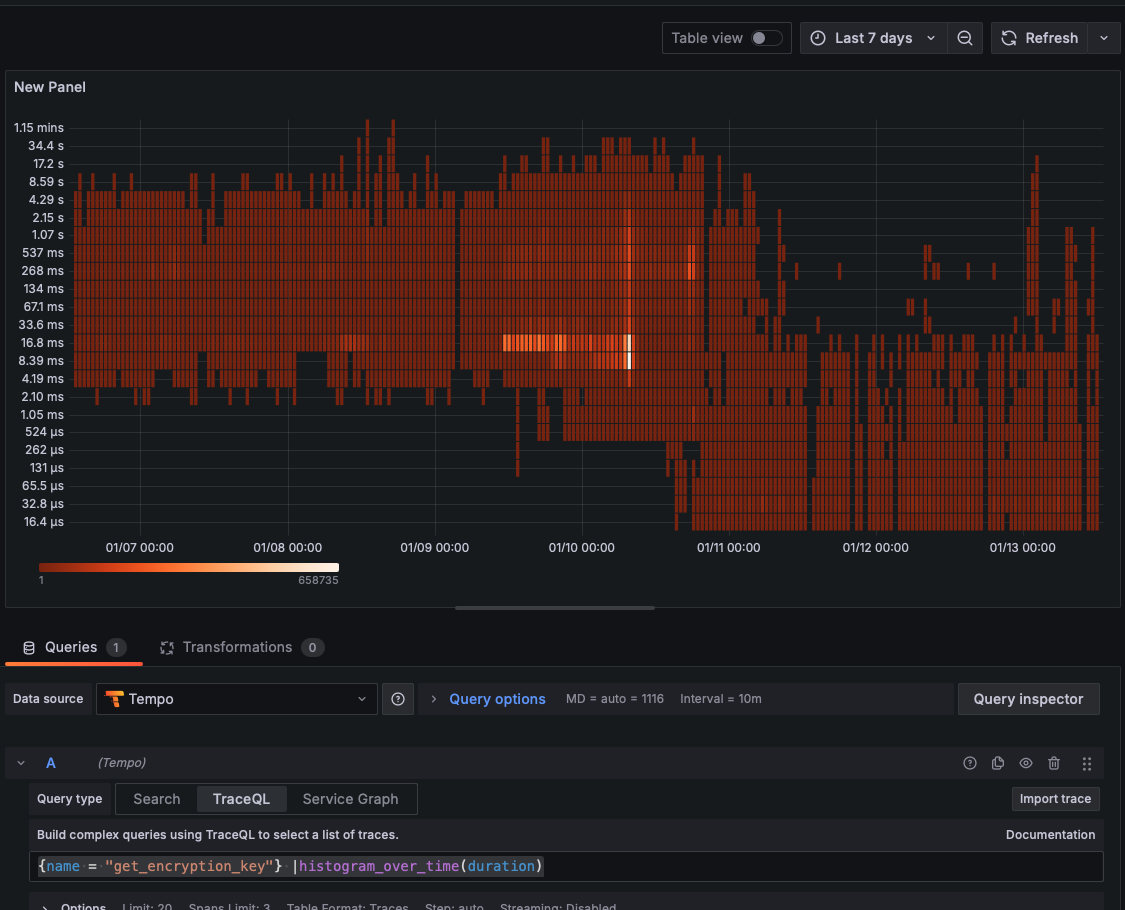
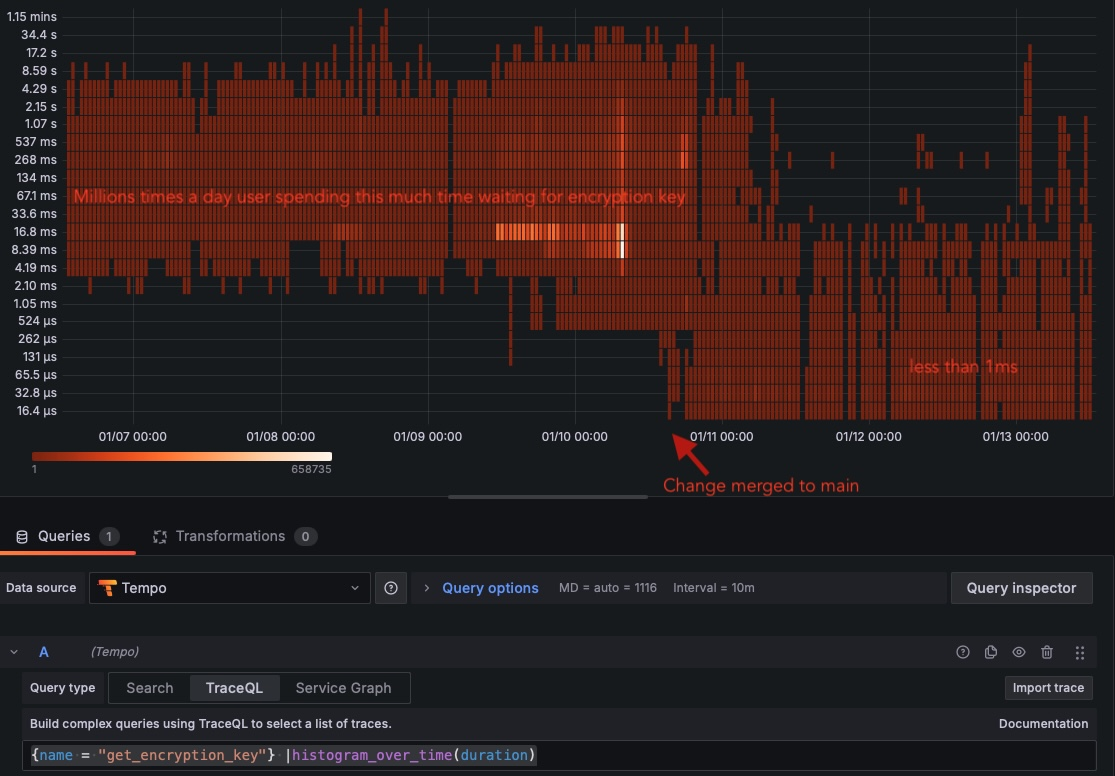
add resume buttom

diff --git a/site/public/app/index.html b/site/public/app/index.html
@@ -5,12 +5,12 @@
 		<link rel="icon" href="/app/favicon.png" />
 		<meta name="viewport" content="width=device-width, initial-scale=1" />
 		
-		<link rel="modulepreload" href="/app/_app/immutable/entry/start.C6UsscY4.js">
-		<link rel="modulepreload" href="/app/_app/immutable/chunks/Clb7jlLj.js">
+		<link rel="modulepreload" href="/app/_app/immutable/entry/start.DeOweKAX.js">
+		<link rel="modulepreload" href="/app/_app/immutable/chunks/CEBIE8Qb.js">
 		<link rel="modulepreload" href="/app/_app/immutable/chunks/Bzf91455.js">
-		<link rel="modulepreload" href="/app/_app/immutable/chunks/28dDWNPq.js">
+		<link rel="modulepreload" href="/app/_app/immutable/chunks/DODtzOMj.js">
 		<link rel="modulepreload" href="/app/_app/immutable/chunks/CP0TMr1Z.js">
-		<link rel="modulepreload" href="/app/_app/immutable/entry/app.DRmw17VJ.js">
+		<link rel="modulepreload" href="/app/_app/immutable/entry/app.Ch2b6Hvy.js">
 		<link rel="modulepreload" href="/app/_app/immutable/chunks/Cw6Nb3zt.js">
 		<link rel="modulepreload" href="/app/_app/immutable/chunks/BXiMbGZ1.js">
 		<link rel="modulepreload" href="/app/_app/immutable/chunks/DLx3gMsL.js">
@@ -21,7 +21,7 @@
 		<div style="display: contents">
 			<script>
 				{
-					__sveltekit_4tgsgi = {
+					__sveltekit_1yesojg = {
 						base: "/app",
 						assets: "/app"
 					};
@@ -29,8 +29,8 @@
 					const element = document.currentScript.parentElement;
 
 					Promise.all([
-						import("/app/_app/immutable/entry/start.C6UsscY4.js"),
-						import("/app/_app/immutable/entry/app.DRmw17VJ.js")
+						import("/app/_app/immutable/entry/start.DeOweKAX.js"),
+						import("/app/_app/immutable/entry/app.Ch2b6Hvy.js")
 					]).then(([kit, app]) => {
 						kit.start(app, element);
 					});

diff --git a/site/static/app/index.html b/site/static/app/index.html
@@ -5,12 +5,12 @@
 		<link rel="icon" href="/app/favicon.png" />
 		<meta name="viewport" content="width=device-width, initial-scale=1" />
 		
-		<link rel="modulepreload" href="/app/_app/immutable/entry/start.C6UsscY4.js">
-		<link rel="modulepreload" href="/app/_app/immutable/chunks/Clb7jlLj.js">
+		<link rel="modulepreload" href="/app/_app/immutable/entry/start.DeOweKAX.js">
+		<link rel="modulepreload" href="/app/_app/immutable/chunks/CEBIE8Qb.js">
 		<link rel="modulepreload" href="/app/_app/immutable/chunks/Bzf91455.js">
-		<link rel="modulepreload" href="/app/_app/immutable/chunks/28dDWNPq.js">
+		<link rel="modulepreload" href="/app/_app/immutable/chunks/DODtzOMj.js">
 		<link rel="modulepreload" href="/app/_app/immutable/chunks/CP0TMr1Z.js">
-		<link rel="modulepreload" href="/app/_app/immutable/entry/app.DRmw17VJ.js">
+		<link rel="modulepreload" href="/app/_app/immutable/entry/app.Ch2b6Hvy.js">
 		<link rel="modulepreload" href="/app/_app/immutable/chunks/Cw6Nb3zt.js">
 		<link rel="modulepreload" href="/app/_app/immutable/chunks/BXiMbGZ1.js">
 		<link rel="modulepreload" href="/app/_app/immutable/chunks/DLx3gMsL.js">
@@ -21,7 +21,7 @@
 		<div style="display: contents">
 			<script>
 				{
-					__sveltekit_4tgsgi = {
+					__sveltekit_1yesojg = {
 						base: "/app",
 						assets: "/app"
 					};
@@ -29,8 +29,8 @@
 					const element = document.currentScript.parentElement;
 
 					Promise.all([
-						import("/app/_app/immutable/entry/start.C6UsscY4.js"),
-						import("/app/_app/immutable/entry/app.DRmw17VJ.js")
+						import("/app/_app/immutable/entry/start.DeOweKAX.js"),
+						import("/app/_app/immutable/entry/app.Ch2b6Hvy.js")
 					]).then(([kit, app]) => {
 						kit.start(app, element);
 					});

diff --git a/site/public/posts/my-first-post/index.html b/site/public/posts/my-first-post/index.html
@@ -167,6 +167,16 @@
             </div>
         </div>
         <ul id="menu">
+            <li>
+                <a href="http://localhost:1313/resume" title="Resume">
+                    <span>Resume</span>
+                </a>
+            </li>
+            <li>
+                <a href="http://localhost:1313/posts" title="Posts">
+                    <span>Posts</span>
+                </a>
+            </li>
         </ul>
     </nav>
 </header>
@@ -259,7 +269,7 @@ Query understanding, document retrieval, and summarization.</p>
 Suspect the latency come from poor network call concurrency from Python.
 <img alt="long redis delay" loading="lazy" src="/posts/my-first-post/redis.png"></p>
 <p>This heatmap shows two hot zones for the simple getting encryption key operation, one near 16.8ms, the other near 537ms:
-<img alt="Fetch Encryption Key" loading="lazy" src="encryption-heatmap.png">
+<img alt="Fetch Encryption Key" loading="lazy" src="/posts/my-first-post/encryption-heatmap.png">
 Similarly, key validation function could take way longer than it should.
 <img alt="Bottleneck Analysis" loading="lazy" src="/posts/my-first-post/key-validation.png">
 <img alt="trace hub" loading="lazy" src="/posts/my-first-post/trace-hub.png"></p>

diff --git a/site/public/posts/index.html b/site/public/posts/index.html
@@ -123,6 +123,16 @@
             </div>
         </div>
         <ul id="menu">
+            <li>
+                <a href="http://localhost:1313/resume" title="Resume">
+                    <span>Resume</span>
+                </a>
+            </li>
+            <li>
+                <a href="http://localhost:1313/posts" title="Posts">
+                    <span class="active">Posts</span>
+                </a>
+            </li>
         </ul>
     </nav>
 </header>

diff --git a/site/public/404.html b/site/public/404.html
@@ -107,6 +107,16 @@
             </div>
         </div>
         <ul id="menu">
+            <li>
+                <a href="http://localhost:1313/resume" title="Resume">
+                    <span>Resume</span>
+                </a>
+            </li>
+            <li>
+                <a href="http://localhost:1313/posts" title="Posts">
+                    <span>Posts</span>
+                </a>
+            </li>
         </ul>
     </nav>
 </header>

diff --git a/site/public/categories/blog/index.html b/site/public/categories/blog/index.html
@@ -108,6 +108,16 @@
             </div>
         </div>
         <ul id="menu">
+            <li>
+                <a href="http://localhost:1313/resume" title="Resume">
+                    <span>Resume</span>
+                </a>
+            </li>
+            <li>
+                <a href="http://localhost:1313/posts" title="Posts">
+                    <span>Posts</span>
+                </a>
+            </li>
         </ul>
     </nav>
 </header>

diff --git a/site/public/categories/index.html b/site/public/categories/index.html
@@ -108,6 +108,16 @@
             </div>
         </div>
         <ul id="menu">
+            <li>
+                <a href="http://localhost:1313/resume" title="Resume">
+                    <span>Resume</span>
+                </a>
+            </li>
+            <li>
+                <a href="http://localhost:1313/posts" title="Posts">
+                    <span>Posts</span>
+                </a>
+            </li>
         </ul>
     </nav>
 </header>

diff --git a/site/public/index.html b/site/public/index.html
@@ -122,6 +122,16 @@
             </div>
         </div>
         <ul id="menu">
+            <li>
+                <a href="http://localhost:1313/resume" title="Resume">
+                    <span>Resume</span>
+                </a>
+            </li>
+            <li>
+                <a href="http://localhost:1313/posts" title="Posts">
+                    <span>Posts</span>
+                </a>
+            </li>
         </ul>
     </nav>
 </header>

diff --git a/site/public/tags/ai-infra/index.html b/site/public/tags/ai-infra/index.html
@@ -108,6 +108,16 @@
             </div>
         </div>
         <ul id="menu">
+            <li>
+                <a href="http://localhost:1313/resume" title="Resume">
+                    <span>Resume</span>
+                </a>
+            </li>
+            <li>
+                <a href="http://localhost:1313/posts" title="Posts">
+                    <span>Posts</span>
+                </a>
+            </li>
         </ul>
     </nav>
 </header>

diff --git a/site/public/tags/index.html b/site/public/tags/index.html
@@ -108,6 +108,16 @@
             </div>
         </div>
         <ul id="menu">
+            <li>
+                <a href="http://localhost:1313/resume" title="Resume">
+                    <span>Resume</span>
+                </a>
+            </li>
+            <li>
+                <a href="http://localhost:1313/posts" title="Posts">
+                    <span>Posts</span>
+                </a>
+            </li>
         </ul>
     </nav>
 </header>
